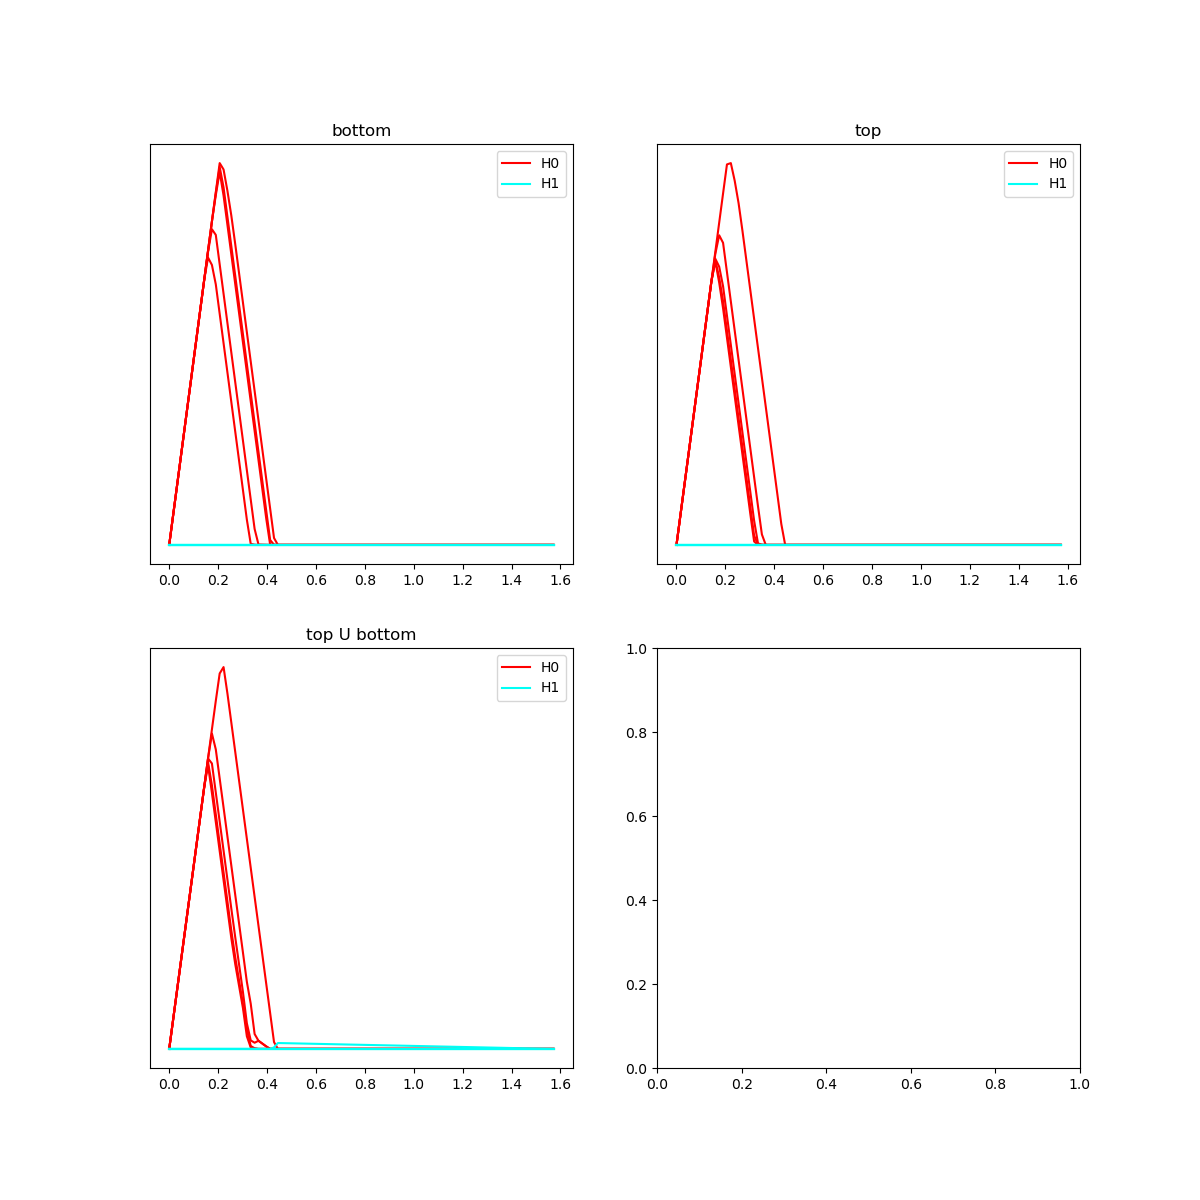
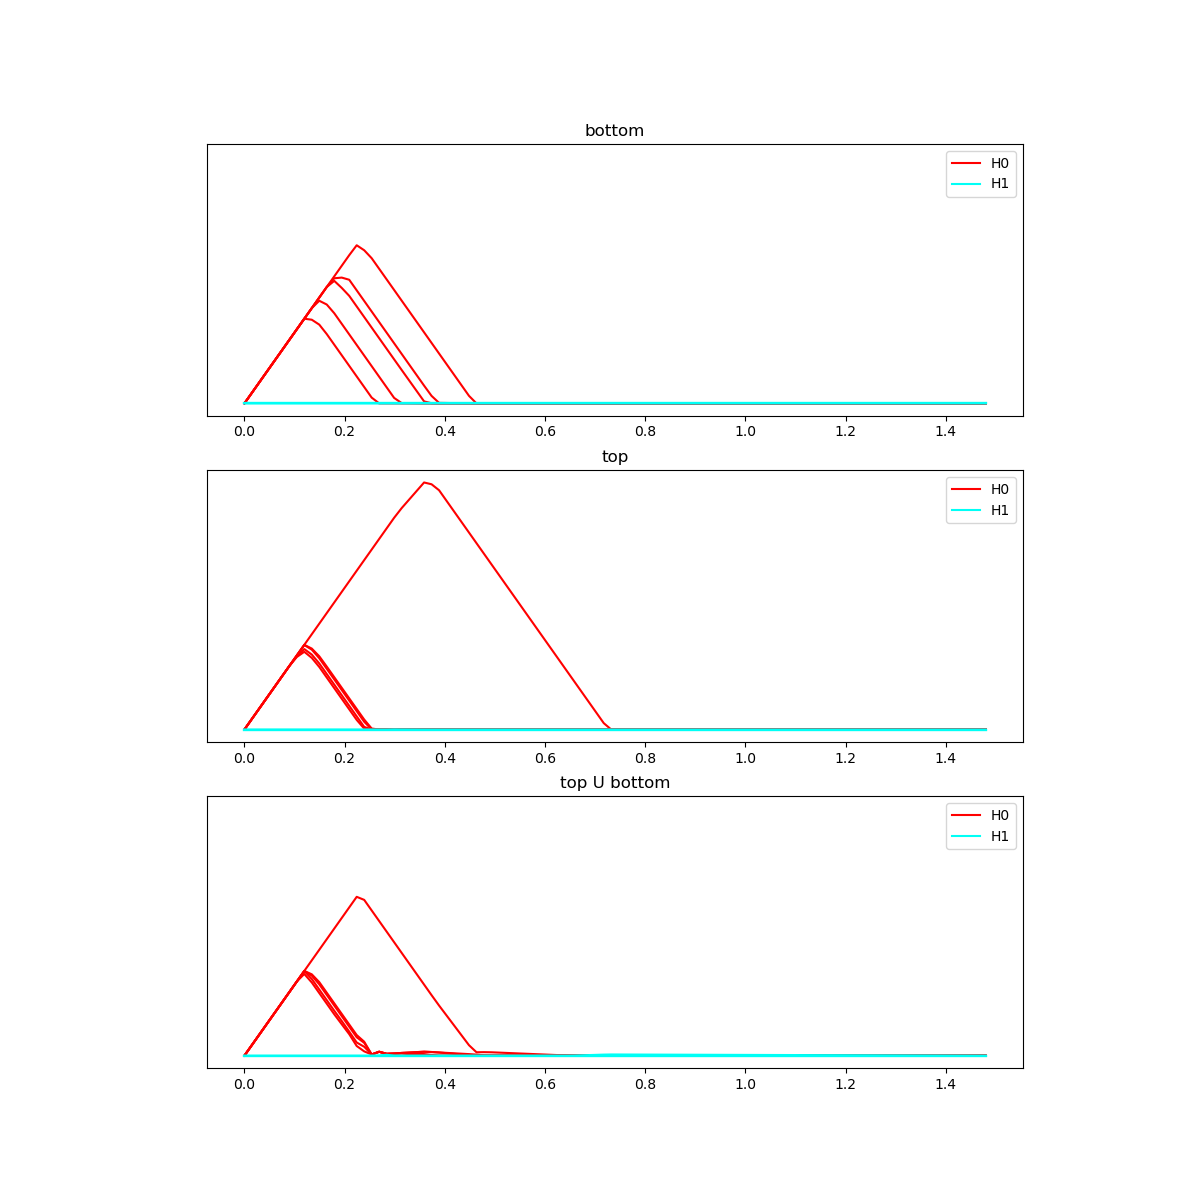
Updated plotting routine to allow specifying layout

diff --git a/src/classwise_tda/visualization.py b/src/classwise_tda/visualization.py
@@ -32,6 +32,7 @@ def plot_landscape(
     if legend:
         ax.legend(handles=legend_lines)
     ax.set_yticks([])
+    ax.set_aspect("equal")
     if created_fig:
         return F, ax
     else:
@@ -40,11 +41,18 @@ def plot_landscape(
 
 def plot_all_landscapes(
     discretized_poset_landscapes: xr.DataArray,
+    grid_layout: Optional[tuple[int, int]] = None,
+    figsize: tuple[float, float] = (12.0, 12.0),
 ) -> tuple[mpl_fig.Figure, mpl_axes.Axes]:
     """Plot landscapes for each union on separate axes"""
     num_plots = discretized_poset_landscapes.sizes["union"]
-    grid_size = int(np.ceil(np.sqrt(num_plots)))
-    F, axes = plt.subplots(grid_size, grid_size, figsize=(12, 12))
+    if grid_layout is None:
+        grid_size = int(np.ceil(np.sqrt(num_plots)))
+        F, axes = plt.subplots(grid_size, grid_size, figsize=figsize, sharey=True)
+    else:
+        F, axes = plt.subplots(
+            grid_layout[0], grid_layout[1], figsize=figsize, sharey=True
+        )
     for i, union in enumerate(discretized_poset_landscapes["union"]):
         this_ax = np.ravel(axes)[i]
         _ = plot_landscape(

diff --git a/scripts/two_half_rings_demo.py b/scripts/two_half_rings_demo.py
@@ -31,7 +31,8 @@ poset_graph, inclusion_graph = poset_landscapes.compute_classwise_landscape_pose
 landscape_array = poset_landscapes.discretize_poset_graph_landscapes(poset_graph, 100)
 
 F, ax = visualization.plot_all_landscapes(
-    landscape_array
+    landscape_array,
+    grid_layout = (3, 1)
 )
 
 F.savefig("/nfs/home/lverho/classwise_tda/figures/two_half_ring_landscapes.png")
